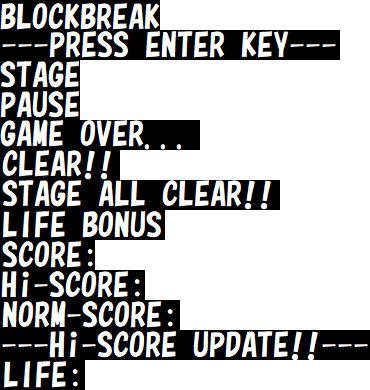
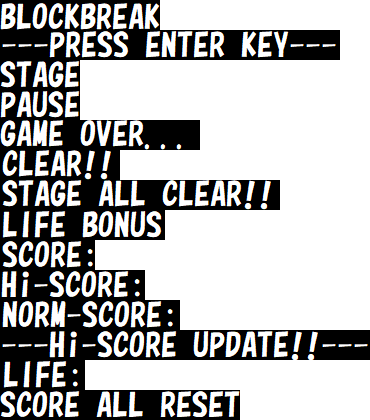
エディタのロックと、10番フラグ立てる条件を付記

diff --git a/blockbreak.py b/blockbreak.py
@@ -144,8 +144,9 @@ class Play():
         widths = [80, 60, 40, 30]
         for i in range(8): rectseries[0].append(Rect(0, 5 * i, widths[i % 4], 5))
 
-        widths = [160, 340, 80, 80, 200, 120, 280, 165, 95, 145, 180, 370, 85]
-        for i in range(13): rectseries[1].append(Rect(0, 30 * i, widths[i], 30))
+        widths = [160, 340, 80, 80, 200, 120, 280, 165, 95, 145, 180, 370, 85, 240]
+        for i in range(14): rectseries[1].append(Rect(0, 30 * i, widths[i], 30))
+
         for i in range(11): rectseries[2].append(Rect(18 * i, 0, 18, 30))
 
         widths = [65, 130, 180, 180, 180, 180, 180]
@@ -582,6 +583,8 @@ class GameState:
         for i in range(5): line.append(self.numbers[0])
         self.score_board.append(line)  # ボーナス表示用のスペース。
 
+        self.rc = 0  # ・・・・？？？？
+
     def life_image_update(self, new_life):
         # ライフ画像の更新
         self.life_image[0] = self.numbers[new_life % 10]
@@ -609,6 +612,8 @@ class GameState:
         if self.mState == TITLE:
             screen.blit(self.texts[0], (200, 120))  # TITLE
             screen.blit(self.texts[1], (140, 180))  # PRESS ENTER KEY
+            if self.rc == 5:
+                screen.blit(self.texts[13], (140, 230))  # SCORE ALL RESET
 
         elif self.mState == SELECT:
             # 選択しているところは黒文字
@@ -679,6 +684,10 @@ class GameState:
         if self.mState == TITLE:
             if key == K_RETURN:
                 self.mState = SELECT
+                self.rc = 0  # 元に戻す。
+            else:
+                if self.backup[10] == 0: return False
+                self.calc_resetcount(key)   # 10番フラグが立ってる時のみ。
             return False
 
         elif self.mState == SELECT:
@@ -748,7 +757,7 @@ class GameState:
                 self.mState = TITLE
                 # ここでステージの解放、及び、
                 # 3 3 3 3でかつ0なら1にする処理を挟む。
-                # ついでに書き込みも忘れずに。
+                # すべて3なら10番にフラグを立てる。→CRAZYモード、エディタ、スコアリセット。
                 x = self.stage // 5
                 if x < 4 and self.backup[x] == 0:
                     self.backup[x] = 1 # 次のステージ組解放
@@ -756,6 +765,8 @@ class GameState:
                 if self.backup[4] == 0 and self.backup[0] + self.backup[1] + self.backup[2] + self.backup[3] == 12:
                     self.backup[4] = 1  # EXTRA解放
                     self.limit = 5      # limitをMAXに。
+                if self.backup[4] == 3 and self.backup[10] == 0:
+                    self.backup[10] = 1   # いろいろ解放される（CRAZYとかエディタとか）。
                 self.backup[11] = 0  # フラグを消す。
                 return True
 
@@ -787,19 +798,32 @@ class GameState:
         # ここで全部やる。(0)bonus画像設定、さらにscore(最終スコア)と
         # stageから分かるそのステージ組のハイスコアを比べて上がるようなら
         # (1)ハイスコアbackupの更新、(2)表示画像の更新、
-        # (3)HARDでクリアしたら星を付ける。
+        # (3)HARDでクリアしたら星を付ける。（スコアは無関係）
         # (4)ハイスコア更新したらフラグ立ててALLCLEAR画面にあれする。
         for i in range(5):
             self.score_board[5][i] = self.numbers[bonus % 10]
             bonus //= 10
         x = self.stage // 5 - 1
+        if self.mode == self.HARD and self.backup[x] == 1: self.backup[x] = 3  # HARDのとき1→3.
         if score > self.backup[5 + x]:
-            if self.mode == self.HARD: self.backup[x] = 3  # HARDのとき1→3. 
             self.backup[5 + x] = score
             for i in range(6):
                 self.score_board[x][i] = self.numbers[score % 10]
                 score //= 10
             self.backup[11] = 1  # フラグ。テキスト表示用。
+
+    def calc_resetcount(self, key):
+        # 一定の条件下でrcを進めていく。
+        return
+        # self.hi_score_allreset()
+
+    def hi_score_allreset(self):
+        # ハイスコアデータ全消去
+        for i in range(5):
+            for j in range(6):
+                self.score_board[i][j] = self.numbers[0]
+            self.backup[5 + i] = 0
+        self.write_data()
 
 if __name__ =="__main__":
     Play()

diff --git a/bbeditor.py b/bbeditor.py
@@ -1,3 +1,6 @@
+"""
+エディタ。操作方法はレジュメを参照。
+"""
 
 import pygame
 from pygame.locals import *
@@ -51,6 +54,15 @@ class editor():
         self.loading()
         self.load_stage(1)  # とりあえずSTAGE1のデータを放り込む。
 
+        # lock. 全てのステージ（EXTRA含む)をHARDでクリアしないと使えない。
+        fp = open(os.path.join("stages", "scores.txt"), "r")
+        data = []
+        for row in fp:
+            row = row.rstrip()
+            data = row.split()
+        fp.close()
+        self.lock = 1 - int(data[10])  # 1か0か。1なら使うことは出来ない。
+
         clock = pygame.time.Clock()
 
         while True:
@@ -88,6 +100,8 @@ class editor():
         self.stage_button = self.create_images("SELECTSTAGE", rectseries[8])
         # セーブボタン。
         self.save_button = self.create_images("SAVE", rectseries[9])
+        # 警告表示
+        self.warning = self.load_image("TO_USE_EDITOR")
 
     def create_images(self, filename, RectList):
         """データをもとにイメージ配列を作成"""
@@ -100,6 +114,10 @@ class editor():
         return images
 
     def draw(self, screen):
+        if self.lock:
+            screen.blit(self.warning, (20, 20))
+            return
+
         screen.blit(self.backImg, (0, 0))
         # ステージ表示用ボタン
         for k in range(2):
@@ -125,6 +143,8 @@ class editor():
             elif event.type == KEYDOWN:
                 self.keydown_event(event.key)
             elif event.type == MOUSEBUTTONDOWN and event.button == 1:
+                # lockならばクリック不可。
+                if self.lock: return
                 self.mousedown_event(event.pos)
 
     def keydown_event(self, key):
@@ -132,7 +152,10 @@ class editor():
         if key == K_ESCAPE:
             pygame.quit()
             sys.exit()
-        elif key == K_LCTRL:
+
+        if self.lock: return
+    
+        if key == K_LCTRL:
             # ブロックの種類の切り替え
             if self.mode == CANNOT_BREAK: self.mode = CAN_BREAK
             else: self.mode = CANNOT_BREAK
